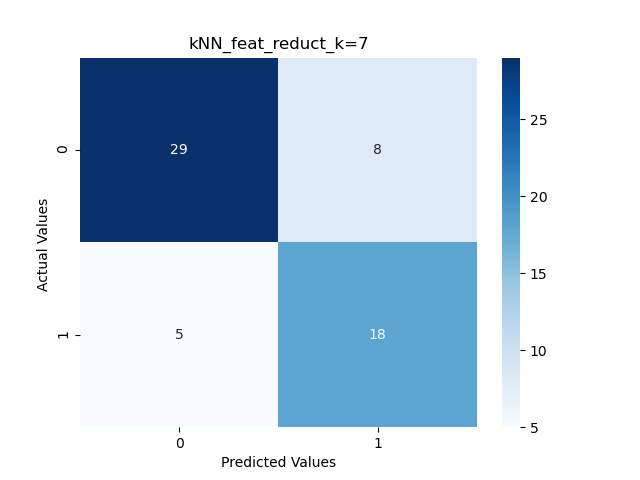
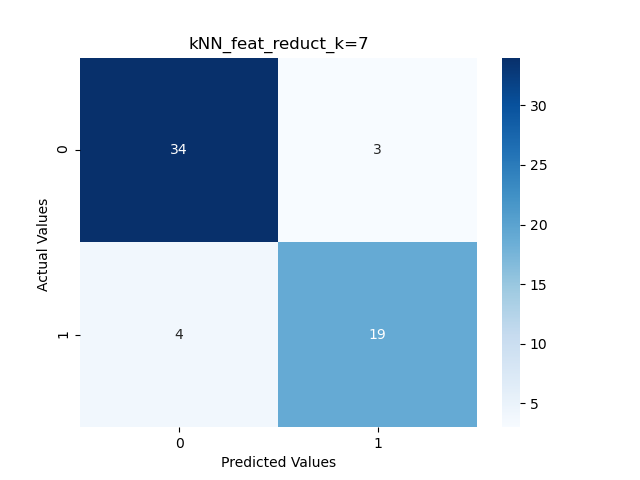
revise SBS

diff --git a/utils/Add_feat.py b/utils/Add_feat.py
@@ -2,24 +2,24 @@ from statistics import mean
 import pandas as pd
 
 def Add_feat(X_tr, X_test):
-    mean_Ws_tr = [0,0,0,0]
-    mean_Ws_test = [0,0,0,0]
+    mean_ISI_tr = [0,0,0,0]
+    mean_ISI_test = [0,0,0,0]
     for i in range(4, X_tr.shape[0]-4):
-        mean_Ws_tr.append(mean(X_tr['Ws'][i-4:i]))
+        mean_ISI_tr.append(mean(X_tr['ISI'][i-4:i]))
 
     for i in range(4, X_test.shape[0]):
-        mean_Ws_test.append(mean(X_test['Ws'][i-4:i]))
+        mean_ISI_test.append(mean(X_test['ISI'][i-4:i]))
 
-    mean_Ws_tr.extend([0,0,0,0])
+    mean_ISI_tr.extend([0,0,0,0])
 
     X_test = X_test.reset_index(drop=True)
-    mean_Ws_test[0] = sum(X_tr['Ws'].iloc[-4:])/4
-    mean_Ws_test[1] = (sum(X_tr['Ws'].iloc[-3:])+X_test['Ws'].iloc[0])/4
-    mean_Ws_test[2] = (sum(X_tr['Ws'].iloc[-2:])+sum(X_test['Ws'].iloc[:2]))/4
-    mean_Ws_test[3] = (X_tr['Ws'].iloc[X_tr.shape[0]-1]+sum(X_test['Ws'].iloc[:3]))/4
+    mean_ISI_test[0] = sum(X_tr['ISI'].iloc[-4:])/4
+    mean_ISI_test[1] = (sum(X_tr['ISI'].iloc[-3:])+X_test['ISI'].iloc[0])/4
+    mean_ISI_test[2] = (sum(X_tr['ISI'].iloc[-2:])+sum(X_test['ISI'].iloc[:2]))/4
+    mean_ISI_test[3] = (X_tr['ISI'].iloc[X_tr.shape[0]-1]+sum(X_test['ISI'].iloc[:3]))/4
     
-    X_tr = X_tr.assign(mean_Ws = mean_Ws_tr)
-    X_test = X_test.assign(mean_Ws = mean_Ws_test)
+    X_tr = X_tr.assign(mean_ISI = mean_ISI_tr)
+    X_test = X_test.assign(mean_ISI = mean_ISI_test)
     
     X_tr = X_tr.drop(X_tr.index[:4])
     X_tr = X_tr.drop(X_tr.index[-4:])

diff --git a/kNN.py b/kNN.py
@@ -26,12 +26,12 @@ def main():
     model = KNeighborsClassifier(n_neighbors=int(args.k))
     scaler = StandardScaler()
     sm = SMOTE(random_state=42)
+    if args.feat_reduction:
+            X_tr = X_tr.drop(columns=['Temperature'])
+            X_test = X_test.drop(columns=['Temperature'])
     if not args.extra_feat:
         # drop first column ("Date" feature)
         X_tr, X_test = X_tr.iloc[:,1:], X_test.iloc[:,1:]
-        if args.feat_reduction:
-            X_tr = X_tr.drop(columns=['ISI','DMC'])
-            X_test = X_test.drop(columns=['ISI','DMC'])
         F1_result, Acc_result = [0]*int(args.M), [0]*int(args.M)
         for m in range(int(args.M)):
             X_val, y_val = X_tr.iloc[46*m:46*(m+1)], y_tr.iloc[46*m:46*(m+1)]

diff --git a/perceptron.py b/perceptron.py
@@ -122,8 +122,8 @@ def main():
     # drop first column ("Date" feature)
     X_tr, X_test = X_tr.iloc[:,1:], X_test.iloc[:,1:]
     if args.feat_reduction:
-        X_tr = X_tr.drop(columns=['ISI', 'DMC', 'BUI', 'DC'])
-        X_test = X_test.drop(columns=['ISI', 'DMC', 'BUI', 'DC'])
+        X_tr = X_tr.drop(columns=['Temperature', 'Ws'])
+        X_test = X_test.drop(columns=['Temperature', 'Ws'])
     F1_result, Acc_result = [0]*int(args.M), [0]*int(args.M)
     sm = SMOTE(random_state=42)
     if args.normalization or args.standardization:

diff --git a/Feature_Selection.py b/Feature_Selection.py
@@ -49,7 +49,7 @@ def main():
                 F1_result[m], Acc_result[m] = metrics(y_val, y_val_pred, "kNN", work='val')
             SBS_res[col] = mean(F1_result)+mean(Acc_result)
         SBS_res = sorted(SBS_res.items(), key = lambda kv:(kv[1], kv[0]))
-        drop_col = SBS_res[0][0]
+        drop_col = SBS_res[-1][0]
         print("dropped column:", drop_col)
         X_tr = X_tr.drop(columns=drop_col)
 

diff --git a/README.md b/README.md
@@ -9,7 +9,7 @@
 
 - Sequential Backward Selection
     - Most contributing features:
-    - Ws > Tempature > RH > FFMC > Rain > DC > BUI > DMC > ISI
+    - ISI > Rain > DMC > FFMC > DC > RH > BUI > Ws > Temperature
 
 - Required reference systems
     - Trivial system \
@@ -51,18 +51,24 @@
     - Test Accuracy: 0.9667
 
     `python3 perceptron.py --M 4 --epoch 200 --standardization --use_SMOTE --feat_reduction --plot_title p_feat_reduct` 
-    - Four least contributing features: ISI -> DMC -> BUI -> DC
+    - Four least contributing features: Temperature -> Ws -> BUI -> RH
     - Drop (1,2,3,4) features
-    - Val F1-score: (0.9446, 0.9242, 0.8448, 0.8784)
-    - Val Accuracy: (0.9348, 0.9076, 0.8207, 0.8696)
-    - Test F1-score: (0.902, 0.9388, 0.7931, 0.7302)
-    - Test Accuracy: (0.9167, 0.95, 0.8, 0.7167)
+    - Val F1-score: (0.9725, 0.9805, 0.9763, 0.9875)
+    - Val Accuracy: (0.9674, 0.9728, 0.9728, 0.9837)
+    - Test F1-score: (0.9583, 0.9787, 0.9388, 0.9583)
+    - Test Accuracy: (0.9667, 0.9833, 0.95, 0.9667)
 
-    `python3 perceptron.py --standardization --use_SMOTE --extra_feat --plot_title p_add_1_feat` 
+    `python3 perceptron.py --standardization --use_SMOTE --feat_reduction --extra_feat --plot_title p_add_1_feat` 
     - Val F1-score: 0.9882
     - Val Accuracy: 0.9783
-    - Test F1-score: 0.8846
-    - Test Accuracy: 0.9
+    - Test F1-score: 0.9787
+    - Test Accuracy: 0.9833
+
+    `python3 perceptron.py --standardization --use_SMOTE --extra_feat --plot_title p_add_1_feat` 
+    - Val F1-score: 0.9767
+    - Val Accuracy: 0.9565
+    - Test F1-score: 0.92
+    - Test Accuracy: 0.9333
 
 - Technique 2: KNN Classifier (Drop "Date", with Standardization)\
     `python3 kNN.py --M 4 --k 7 --plot_title kNN`
@@ -79,18 +85,25 @@
     - Test Accuracy: 0.8833
 
     `python3 kNN.py --M 4 --k 7 --feat_reduction --plot_title kNN_feat_reduct`
-    - Four least contributing features: ISI -> DMC -> BUI -> DC 
+    - Four least contributing features: Temperature -> Ws -> BUI -> RH
     - Drop (1,2,3,4) features
-    - Val F1-score: (0.7915, 0.7772, 0.77, 0.7265)
-    - Val Accuracy: (0.7826, 0.7554, 0.7337, 0.6522)
-    - Test F1-score: (0.7234, 0.7347, 0.7451, 0.7368)
-    - Test Accuracy: (0.7833, 0.7833, 0.7833, 0.75)
+    - Val F1-score: (0.8898, 0.9108, 0.9236, 0.9313)
+    - Val Accuracy: (0.8967, 0.9076, 0.9293, 0.9239)
+    - Test F1-score: (0.8444, 0.8182, 0.8444, 0.8182)
+    - Test Accuracy: (0.8833, 0.8667, 0.8833, 0.8667)
 
+    `python3 kNN.py --extra_feat --feat_reduction --plot_title kNN_add_1_feat` 
+    - Drop temperature
+    - Val F1-score: 0.9767
+    - Val Accuracy: 0.9565
+    - Test F1-score: 0.8085
+    - Test Accuracy: 0.85
+    
     `python3 kNN.py --extra_feat --plot_title kNN_add_1_feat` 
     - Val F1-score: 0.9767
     - Val Accuracy: 0.9565
-    - Test F1-score: 0.7555
-    - Test Accuracy: 0.8167
+    - Test F1-score: 0.8511
+    - Test Accuracy: 0.8833
 
 - Technique 3: MSE Classifier (Drop "Date")\
     `python3 MSE.py --use_SMOTE --plot_title p_MSE_SMOTE` (b=1 for all data pts)
